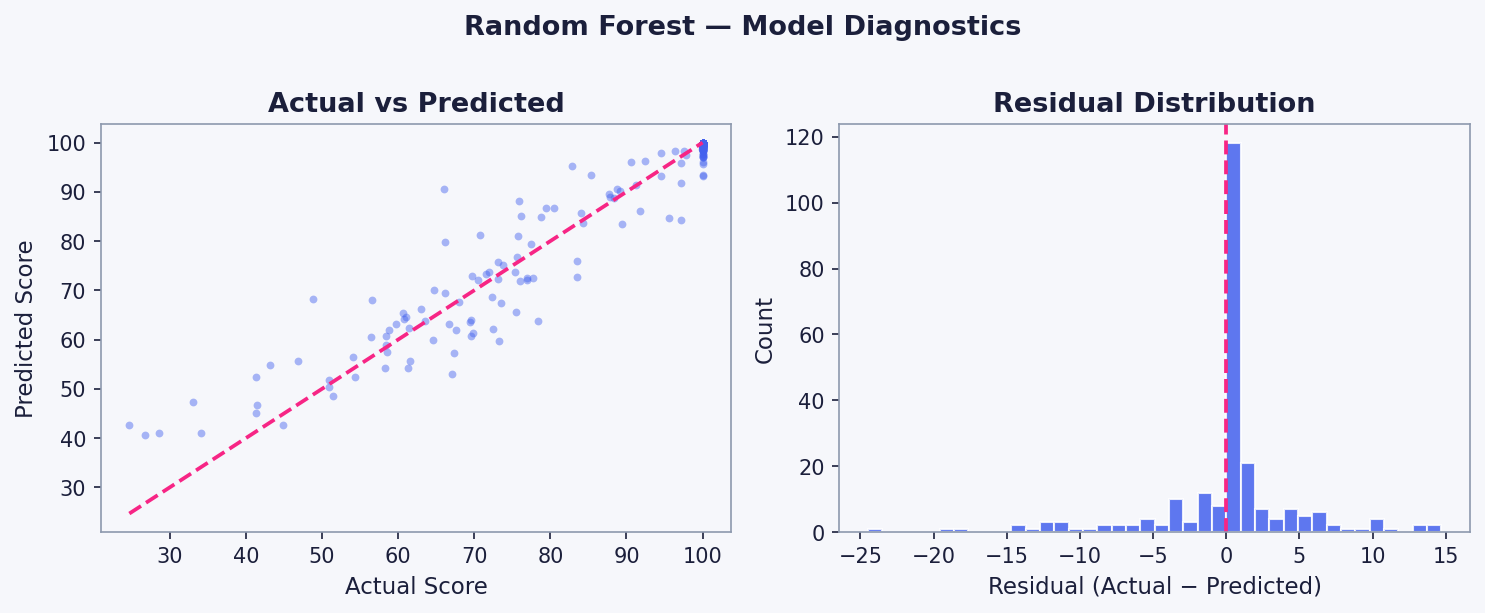
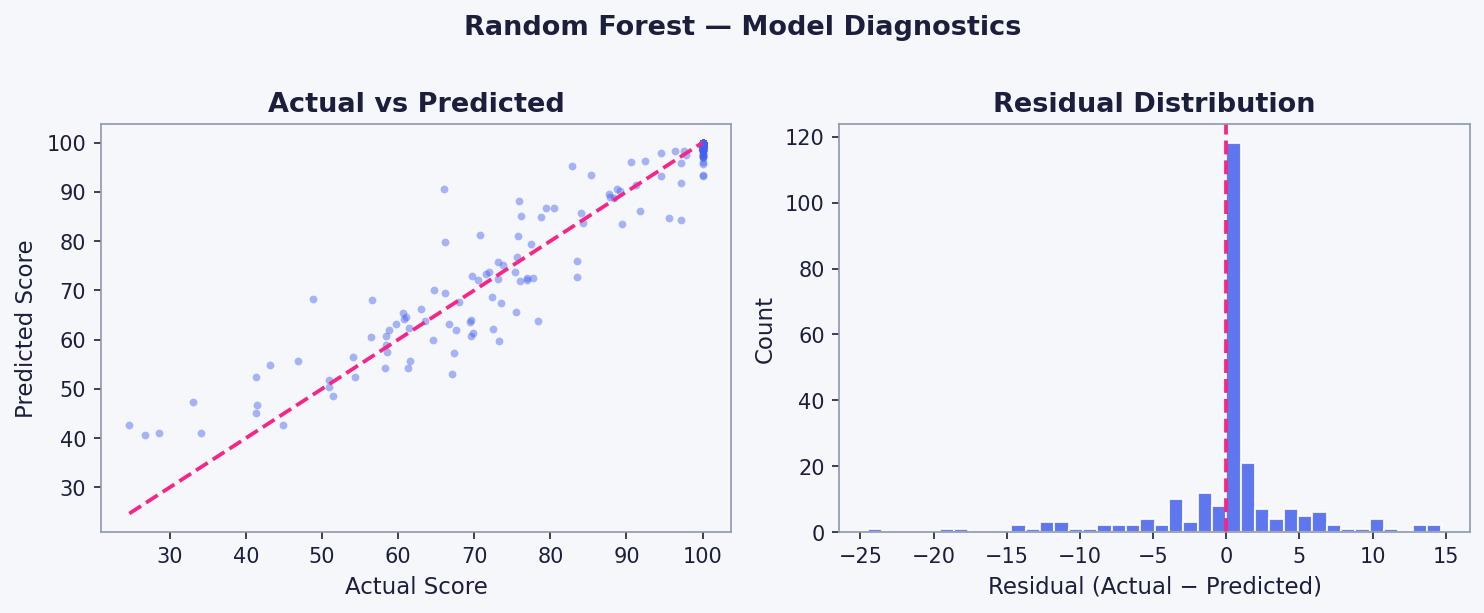
Fixed matplotlib tkinter threading issue

diff --git a/analysis.py b/analysis.py
@@ -5,6 +5,8 @@ Exploratory Data Analysis + three publication-quality visualizations.
 
 Outputs saved to  ./plots/
 """
+import matplotlib
+matplotlib.use("Agg")  # non-GUI backend — no tkinter needed
 
 import os
 import warnings

diff --git a/main.py b/main.py
@@ -13,6 +13,8 @@ Run everything:
 Skip the interactive console (useful in automated pipelines):
     python main.py --no-predict
 """
+import matplotlib
+matplotlib.use("Agg")  # non-GUI backend — no tkinter needed
 
 import sys
 import os

diff --git a/model.py b/model.py
@@ -8,6 +8,8 @@ Usage
 -----
     python model.py          # train, evaluate, save
 """
+import matplotlib
+matplotlib.use("Agg")  # non-GUI backend — no tkinter needed
 
 import os
 import pickle